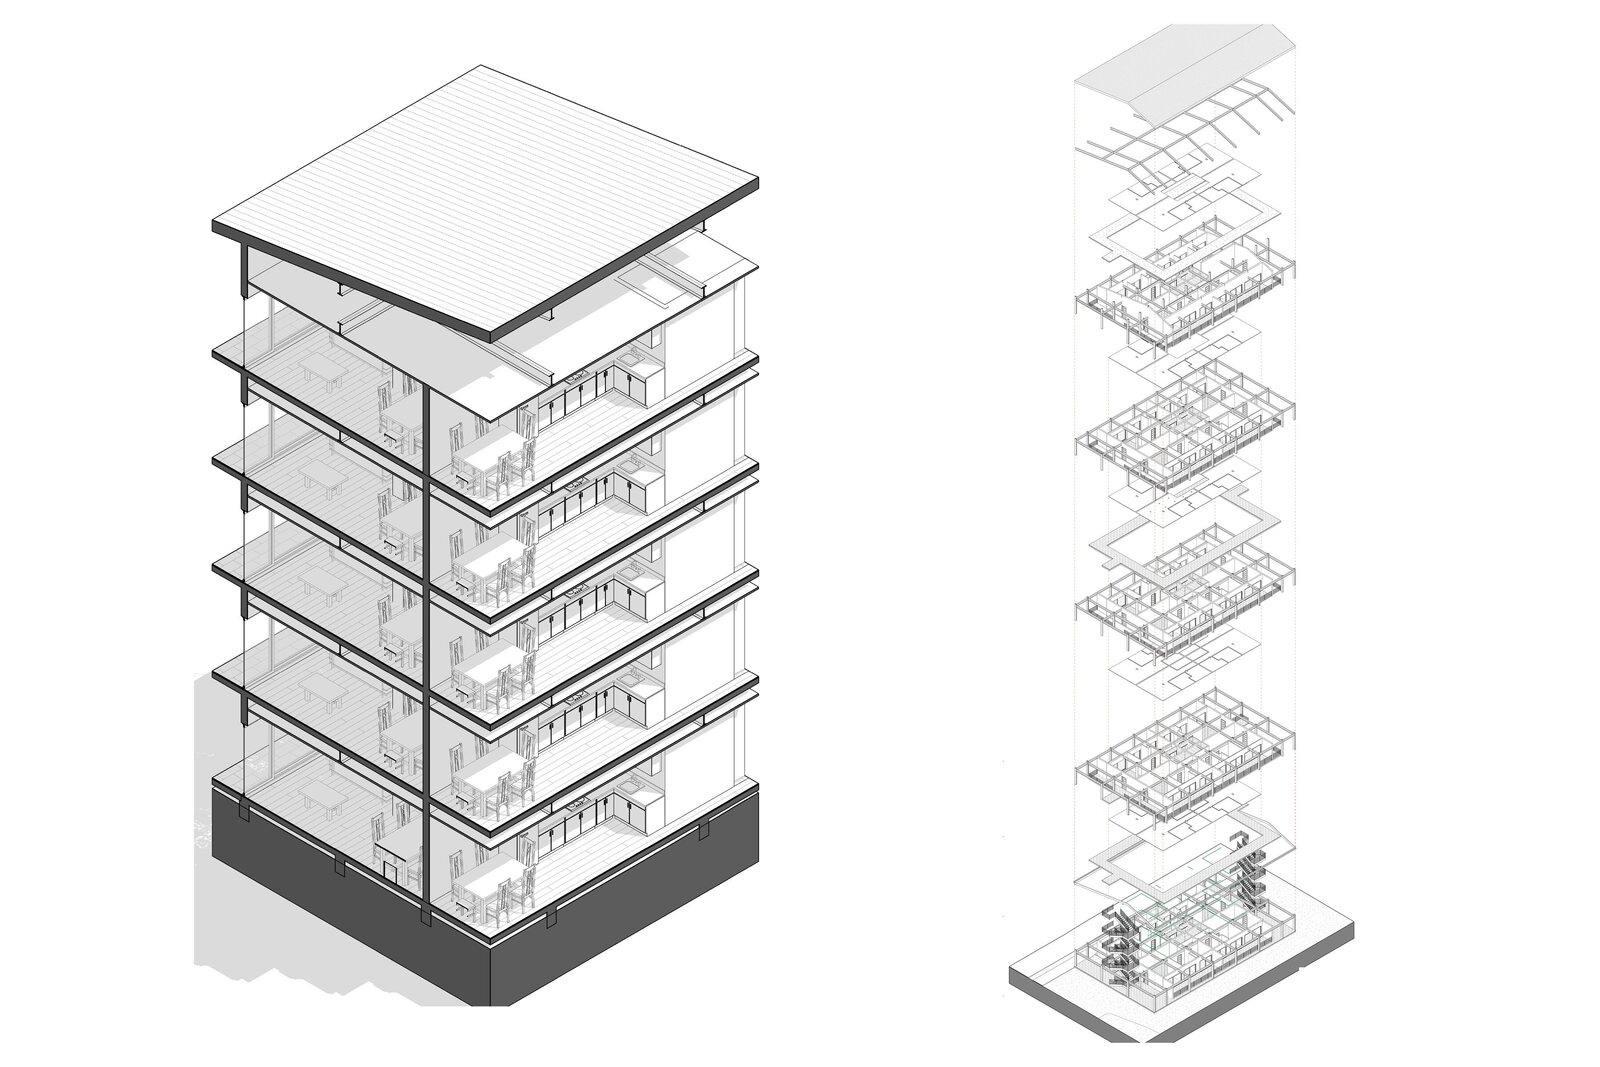
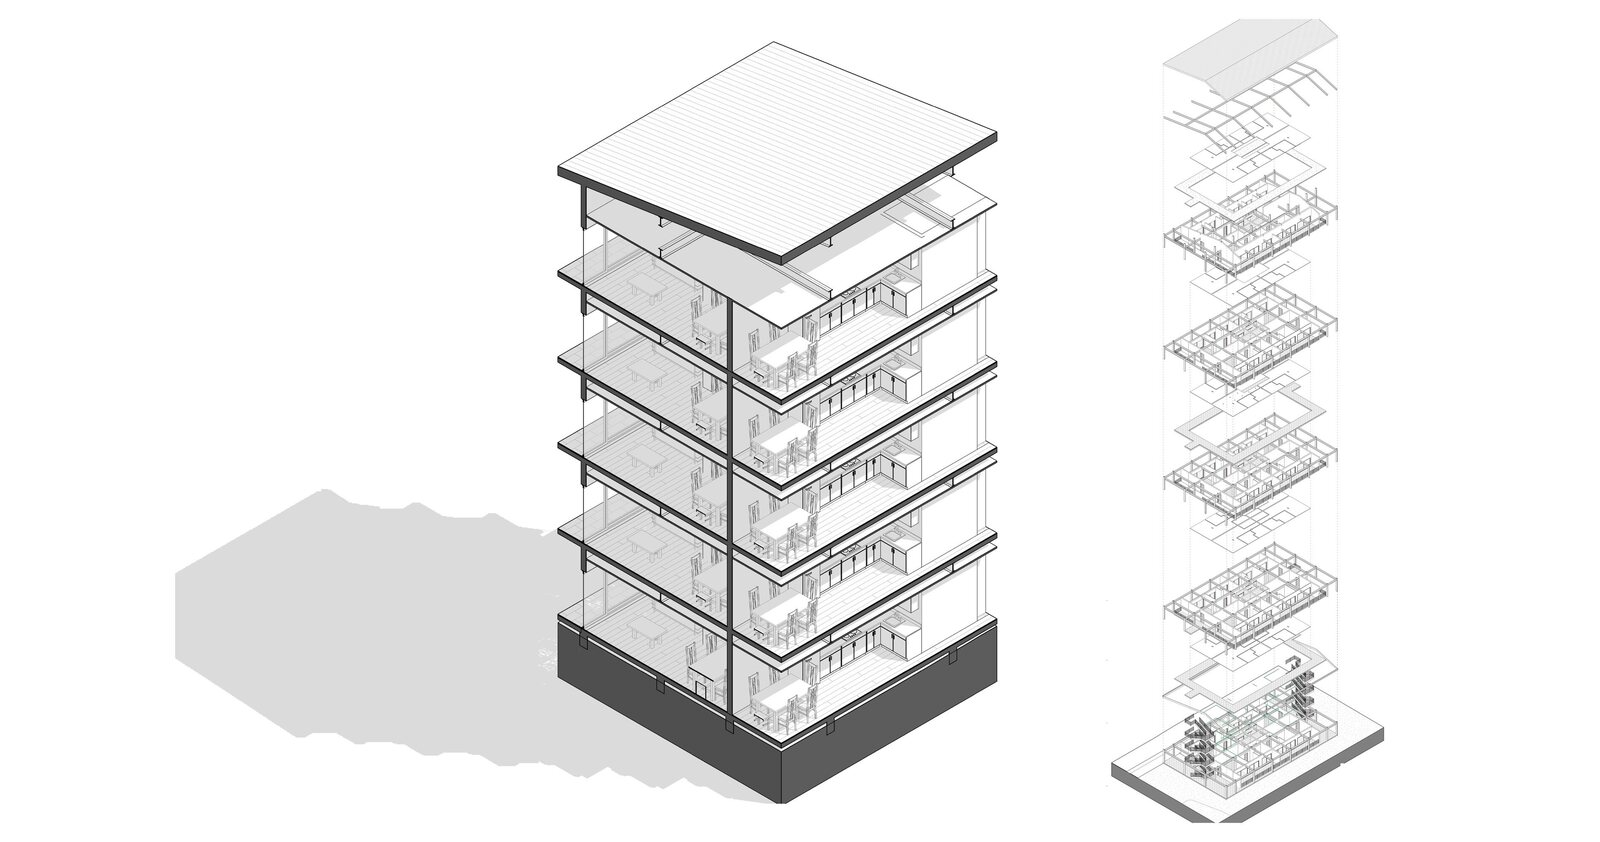
Diplomado: 3D con sombra completa; láminas a todo el ancho cargan la versión grande (sin pixelado)
Claude-Session: https://claude.ai/code/session_01FmVd69kGBz5KSZfse9UPmy

diff --git a/js/data.js b/js/data.js
@@ -1,5 +1,5 @@
 // Versión del contenido: súbela (ej. "2") cada vez que reemplaces imágenes con el mismo nombre, para que los navegadores no muestren copias antiguas.
-window.SITE_VERSION = "14";
+window.SITE_VERSION = "15";
 // Contenido del portafolio. Para agregar un proyecto, copia un bloque y sube sus imágenes a /img/<slug>/.
 // "wide": imágenes (1, 2, ...) que ocupan todo el ancho en la galería. "n" es la cantidad de imágenes (01.jpg, 02.jpg, ...). Las descripciones son opcionales.
 window.PROJECTS = [
@@ -75,7 +75,7 @@ window.PROJECTS = [
   {
     slug: "diplomado-bim", group: "planimetria", title: "Vivienda Colectiva — Diplomado BIM", type: "Diplomado · Vivienda colectiva", year: "2025", n: 6,
     rows: [[1], [2], [3], [4], [5], [6]],
-    ar: {1: 1.5, 2: 1.244, 3: 1.244, 4: 1.244, 5: 1.244, 6: 1.244},
+    ar: {1: 1.9, 2: 1.244, 3: 1.244, 4: 1.244, 5: 1.244, 6: 1.244},
     ficha: {"rol": "Modelación y documentación BIM", "contexto": "Entrega final del Diplomado BIM Arquitectura UC"},
     text: ["Entrega final del Diplomado BIM Arquitectura (Pontificia Universidad Católica de Chile), realizada en julio de 2025. El ejercicio es un edificio de vivienda colectiva de cinco niveles, modelado en Revit y documentado como un set de láminas de arquitectura.", "Incluye axonométricas 3D del edificio, seccionada y explotada, y un set de láminas con ubicación y emplazamiento, plantas de arquitectura de los cinco niveles, planta de departamento tipo, plantas de fundaciones y cubierta, elevaciones, cortes, elevaciones interiores de cocina, axonométricas del conjunto, explotada y de escalera, y tablas de cuantificación."]
   },

diff --git a/js/main.js b/js/main.js
@@ -89,12 +89,13 @@
     var f = p.ficha || {};
     var rows = [["Tipo", p.type.replace(" · ", " — ")], ["Lugar", p.place], ["Año", p.year], ["Estructura", f.struct], ["Estado", f.estado], ["Con", f.colab], ["Autoría", f.autor], ["Contexto", f.contexto], ["Mi rol", f.rol]]
       .filter(function (r) { return r[1]; });
-    var fig = function (k) {
+    var fig = function (k, big) {
       var ar = p.ar && p.ar[k];
-      return '<figure data-i="' + (k - 1) + '"' + (ar ? ' style="--ar:' + ar + '"' : "") + '><img src="' + src(p, k) + '" alt="' + esc(p.title) + " — imagen " + k + '" loading="' + (k < 3 ? "eager" : "lazy") + '"></figure>';
+      // Las imágenes que ocupan todo el ancho (láminas y planos) cargan la versión grande, para que no se vean pixeladas.
+      return '<figure data-i="' + (k - 1) + '"' + (ar ? ' style="--ar:' + ar + '"' : "") + '><img src="' + (big ? full(p, k) : src(p, k)) + '" alt="' + esc(p.title) + " — imagen " + k + '" loading="' + (k < 3 ? "eager" : "lazy") + '"></figure>';
     };
     var figs = "", k;
-    if (p.rows) p.rows.forEach(function (r) { figs += '<div class="jrow' + (r.length === 1 ? " one" : "") + '">' + r.map(fig).join("") + "</div>"; });
+    if (p.rows) p.rows.forEach(function (r) { figs += '<div class="jrow' + (r.length === 1 ? " one" : "") + '">' + r.map(function (k) { return fig(k, r.length === 1); }).join("") + "</div>"; });
     else for (k = 1; k <= p.n; k++) figs += fig(k);
     app.innerHTML =
       '<section class="pj"><div><a class="back" href="#/' + (isSvc(p) ? "planimetria" : "") + '">← ' + (isSvc(p) ? esc(S.title) : "Proyectos") + '</a><h1>' + esc(p.title) + "</h1>" +

diff --git a/index.html b/index.html
@@ -12,7 +12,7 @@
 <link rel="preconnect" href="https://fonts.googleapis.com">
 <link rel="preconnect" href="https://fonts.gstatic.com" crossorigin>
 <link href="https://fonts.googleapis.com/css2?family=Inter:wght@400;500&display=swap" rel="stylesheet">
-<link rel="stylesheet" href="css/style.css?v=14">
+<link rel="stylesheet" href="css/style.css?v=15">
 </head>
 <body>
 <div id="pv"><img alt=""></div>
@@ -43,7 +43,7 @@
   <div class="lb-count"></div>
 </div>
 
-<script src="js/data.js?v=14"></script>
-<script src="js/main.js?v=14"></script>
+<script src="js/data.js?v=15"></script>
+<script src="js/main.js?v=15"></script>
 </body>
 </html>
